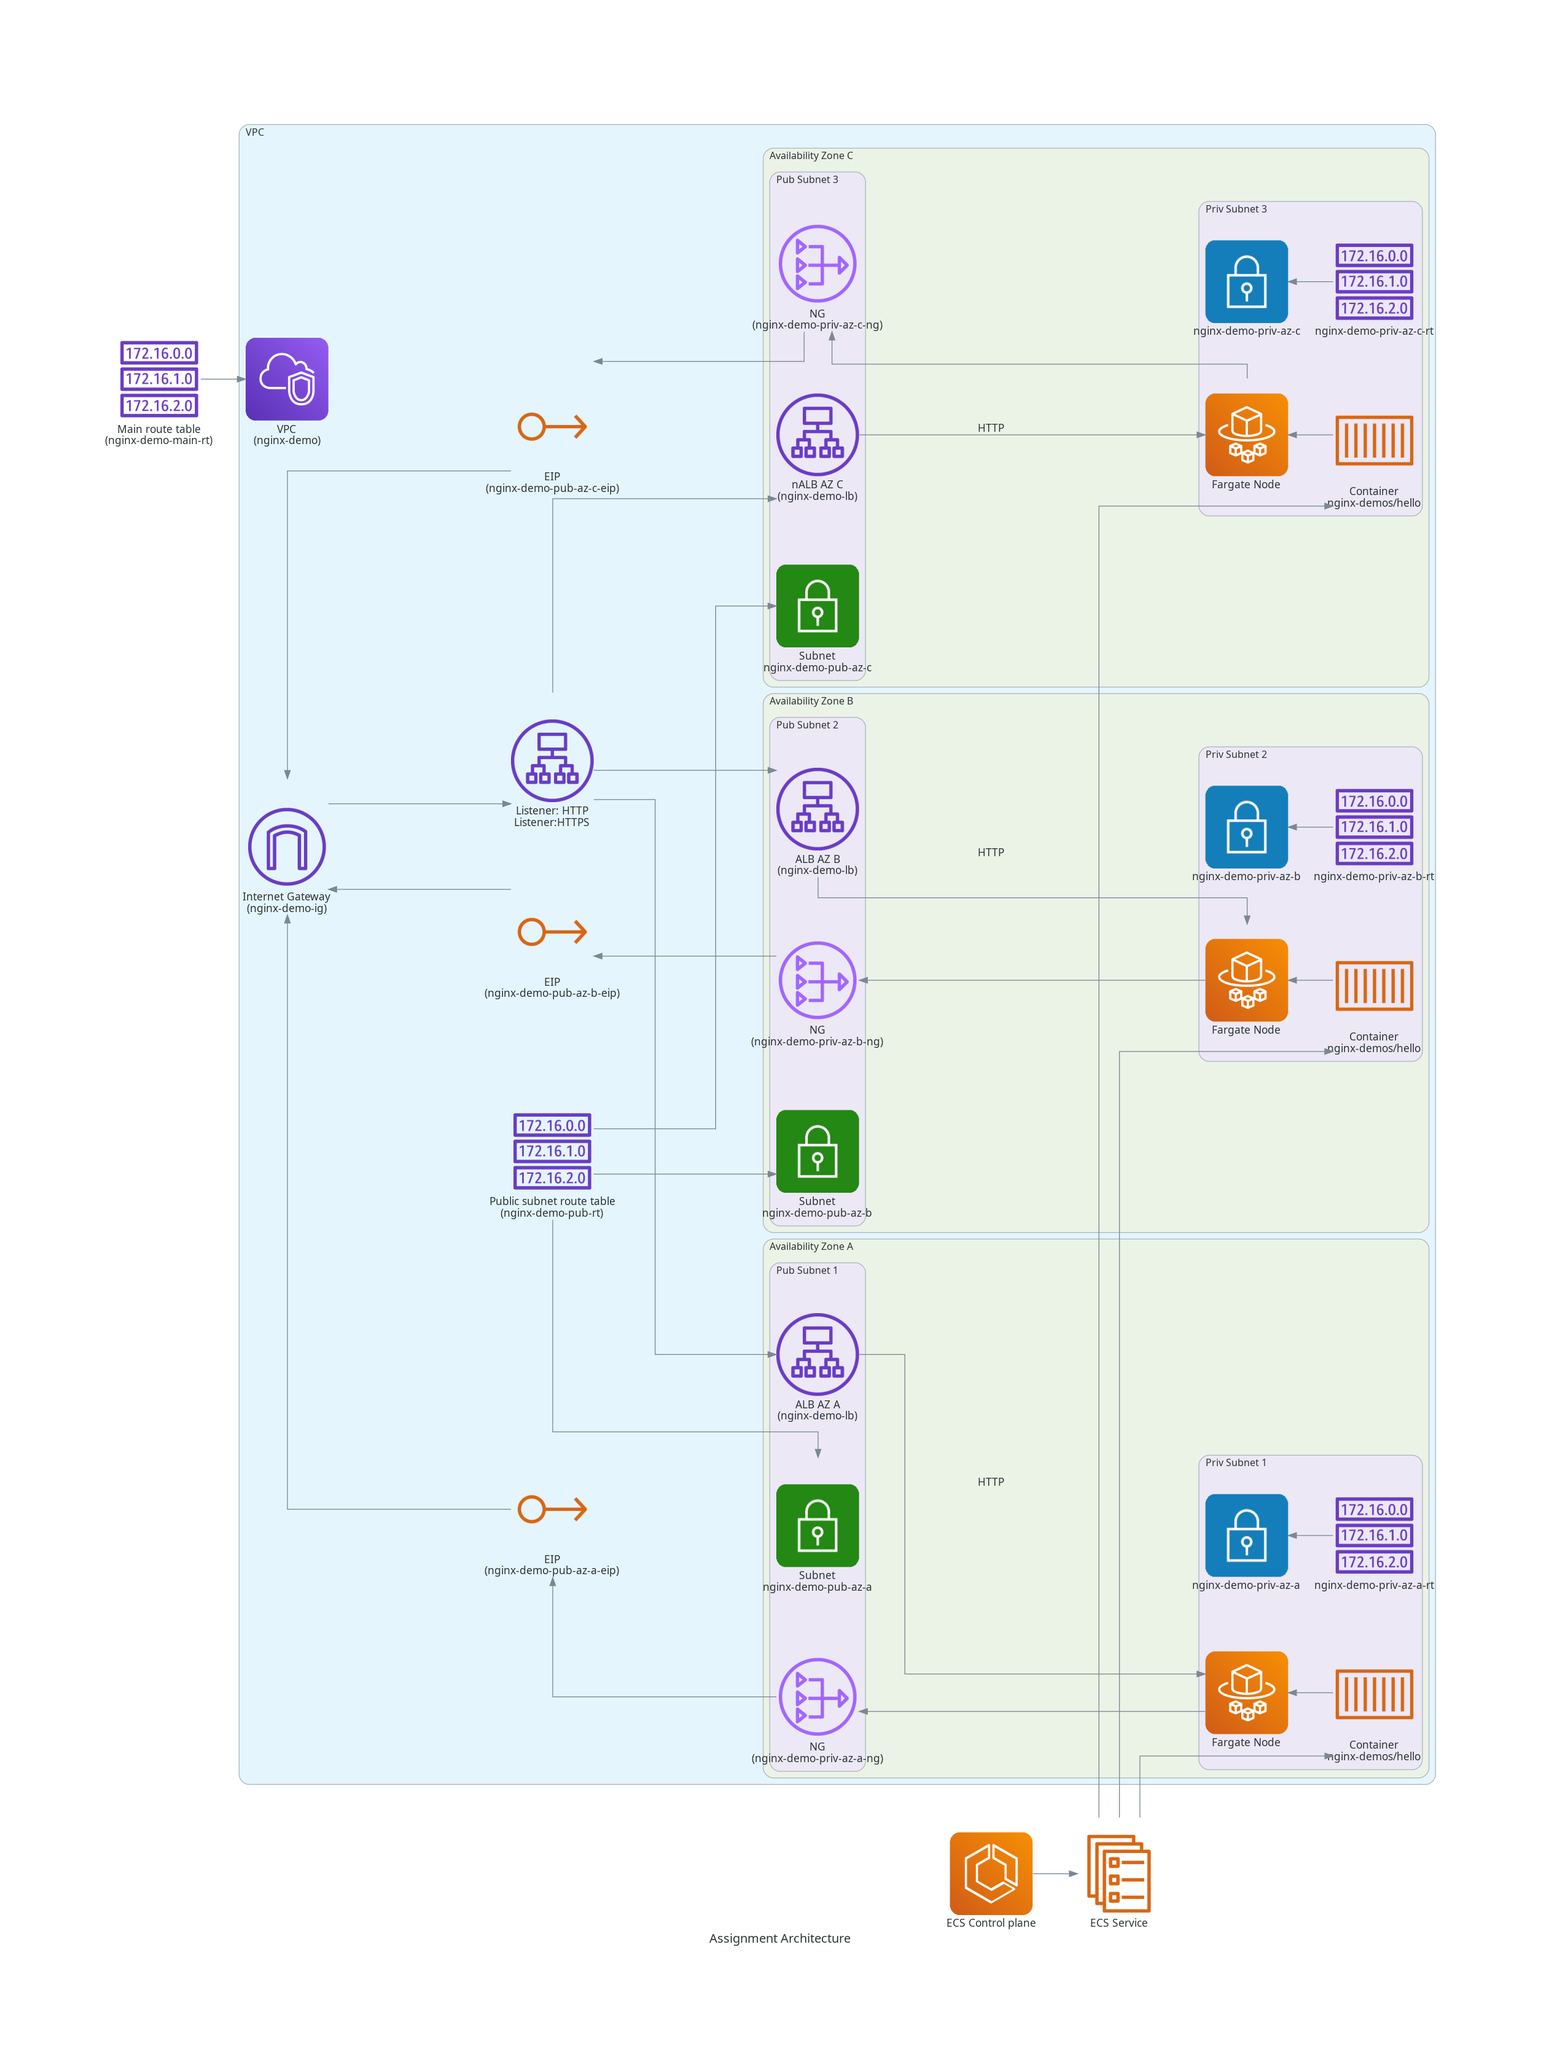
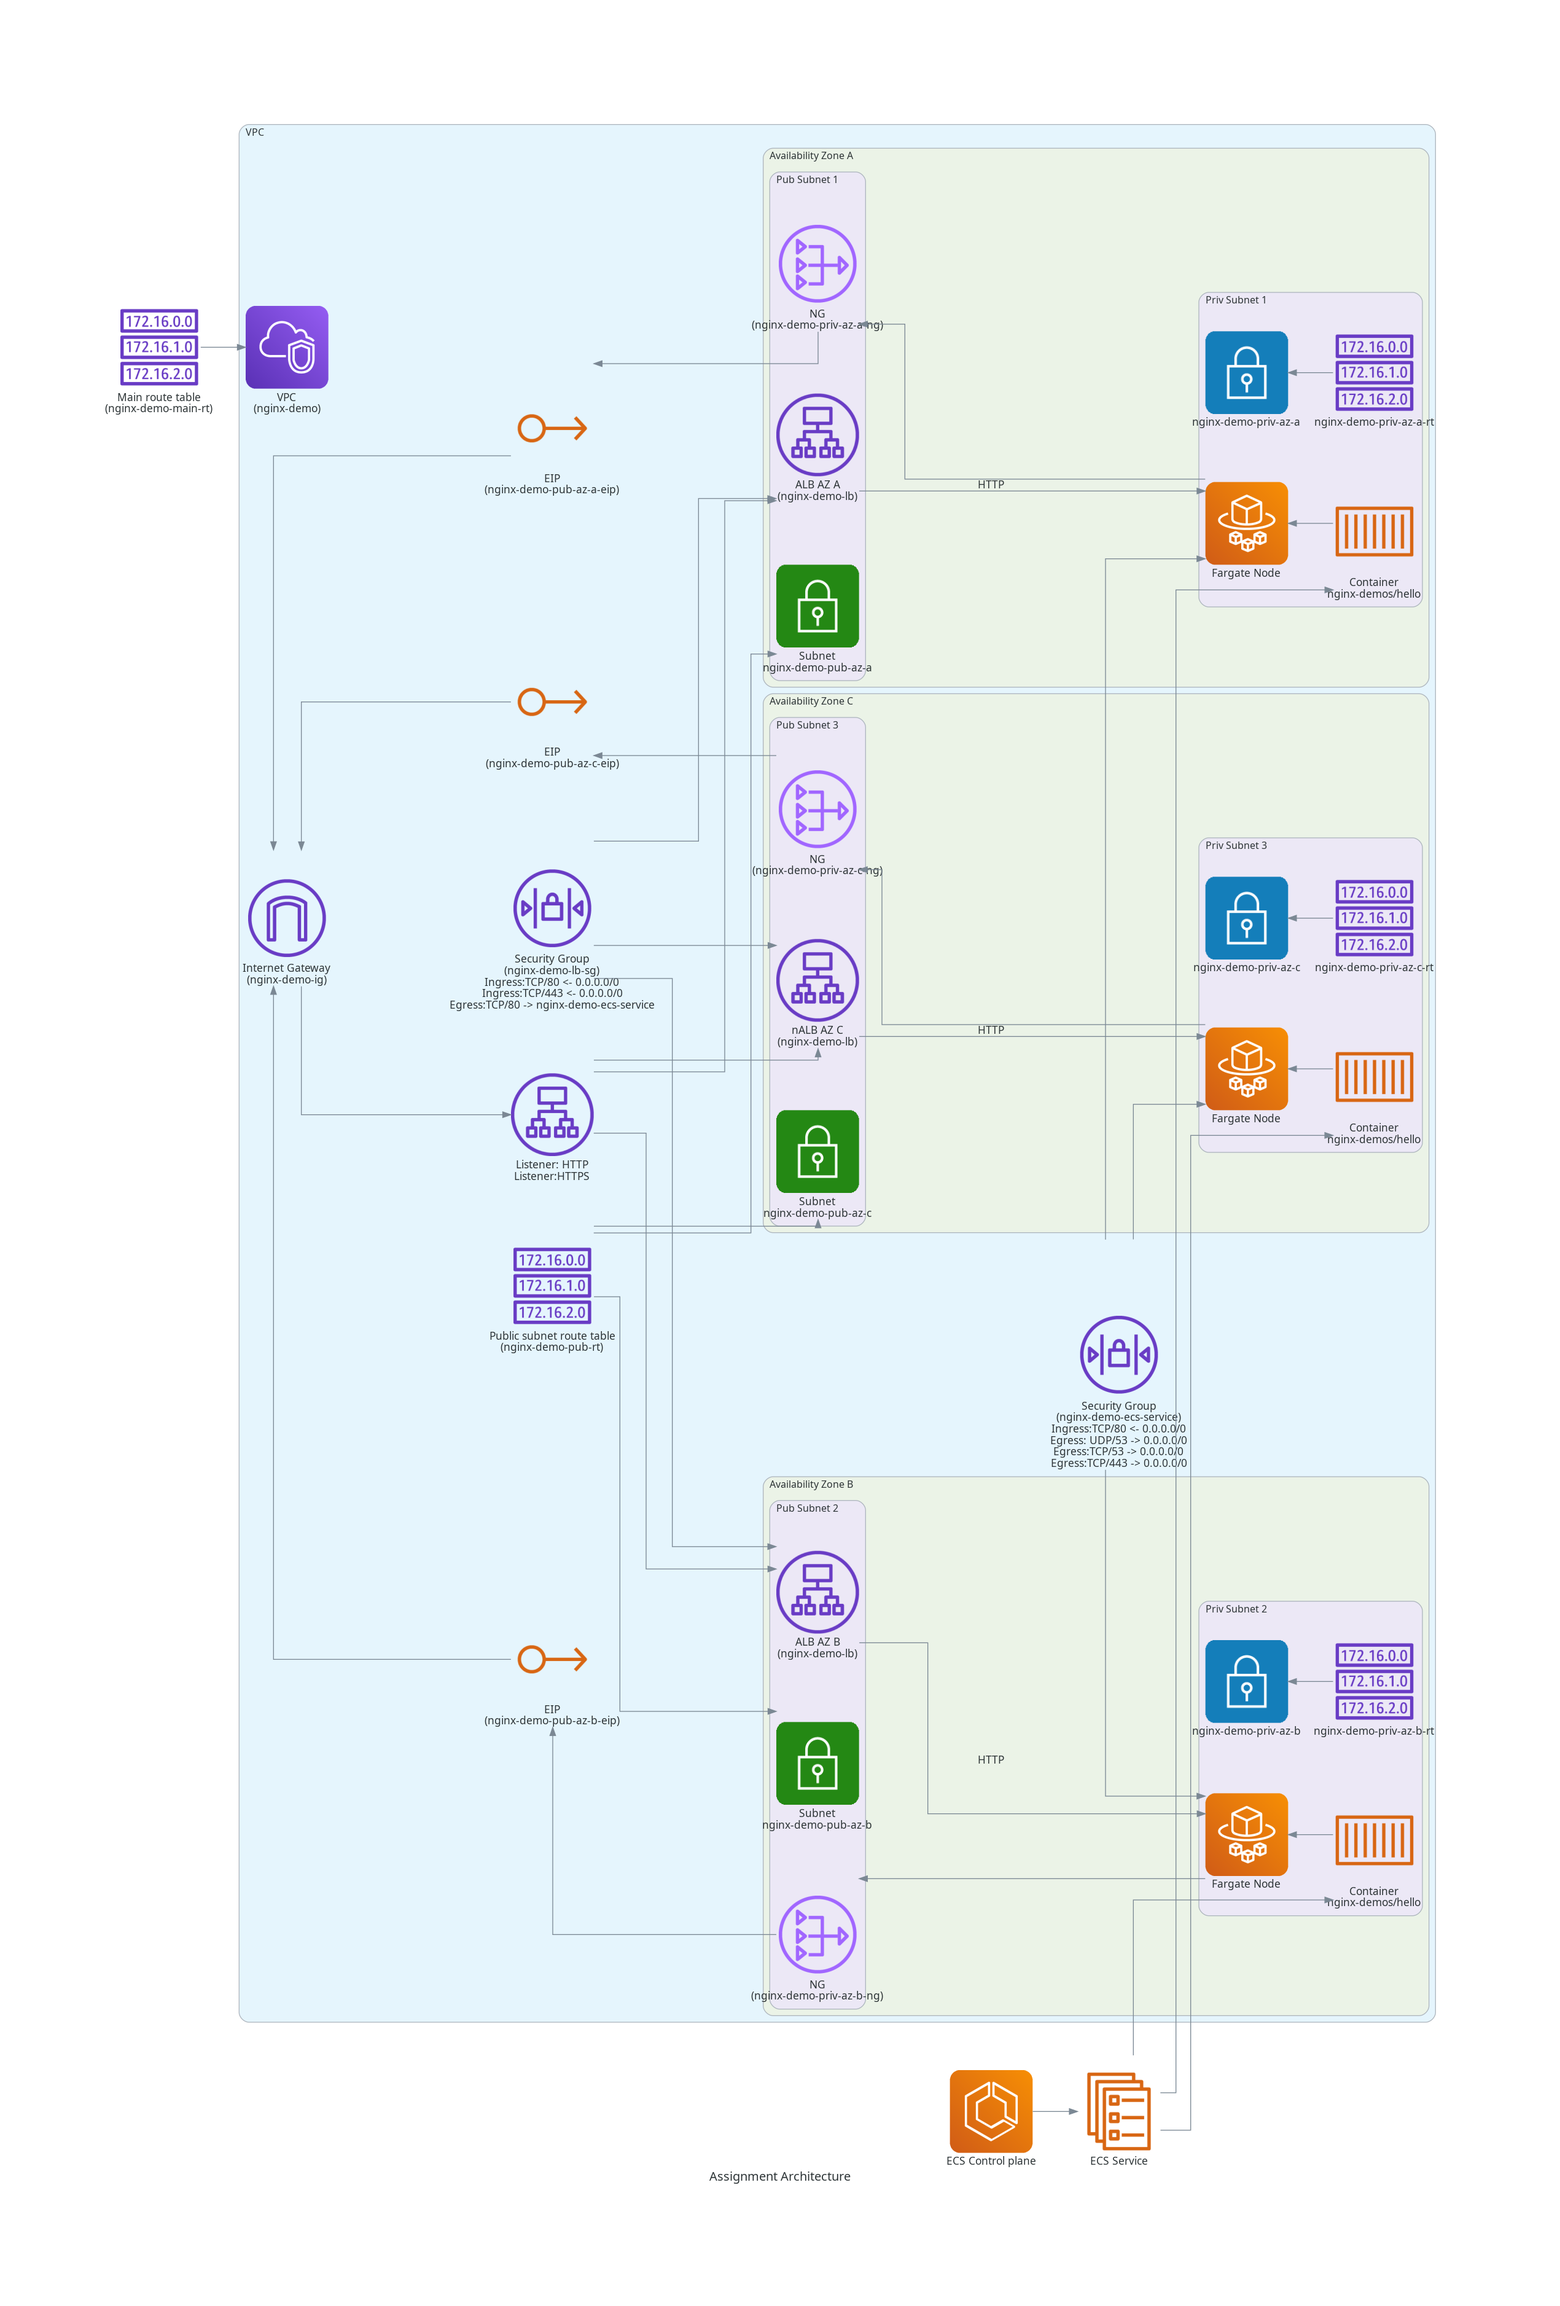
add security groups

diff --git a/docs/render-architecture.py b/docs/render-architecture.py
@@ -1,6 +1,6 @@
 from diagrams import Diagram, Cluster, Edge
 from diagrams.aws.compute import Fargate, ECS, EC2ElasticIpAddress, ElasticContainerServiceService, ElasticContainerServiceContainer
-from diagrams.aws.network import ALB, RouteTable, IGW, VPC, NATGateway, PrivateSubnet, PublicSubnet
+from diagrams.aws.network import ALB, RouteTable, IGW, VPC, NATGateway, PrivateSubnet, PublicSubnet, Nacl
 
 with Diagram("Assignment Architecture", show=False, filename="architecture_diagram"):
     mainrt = RouteTable("Main route table\n(nginx-demo-main-rt)")
@@ -13,6 +13,8 @@ with Diagram("Assignment Architecture", show=False, filename="architecture_diagr
         nginx_demo_pub_az_b_eip = EC2ElasticIpAddress("EIP\n(nginx-demo-pub-az-b-eip)")
         nginx_demo_pub_az_c_eip = EC2ElasticIpAddress("EIP\n(nginx-demo-pub-az-c-eip)")
         alb_ingress = ALB("Listener: HTTP\nListener:HTTPS")
+        sg_ecs = Nacl("Security Group\n(nginx-demo-ecs-service)\nIngress:TCP/80 <- 0.0.0.0/0\nEgress: UDP/53 -> 0.0.0.0/0\nEgress:TCP/53 -> 0.0.0.0/0\nEgress:TCP/443 -> 0.0.0.0/0")
+        sg_lb = Nacl("Security Group\n(nginx-demo-lb-sg)\nIngress:TCP/80 <- 0.0.0.0/0\nIngress:TCP/443 <- 0.0.0.0/0\nEgress:TCP/80 -> nginx-demo-ecs-service")
         with Cluster("Availability Zone A"):
             with Cluster("Pub Subnet 1"):
                 lb_aza = ALB("ALB AZ A\n(nginx-demo-lb)")
@@ -54,3 +56,5 @@ with Diagram("Assignment Architecture", show=False, filename="architecture_diagr
     fg_node1 << cont1
     fg_node2 << cont2
     fg_node3 << cont3
+    sg_lb >> Edge(minlen="4") >> [lb_aza, lb_azb, lb_azc]
+    sg_ecs >> [fg_node1, fg_node2, fg_node3]
